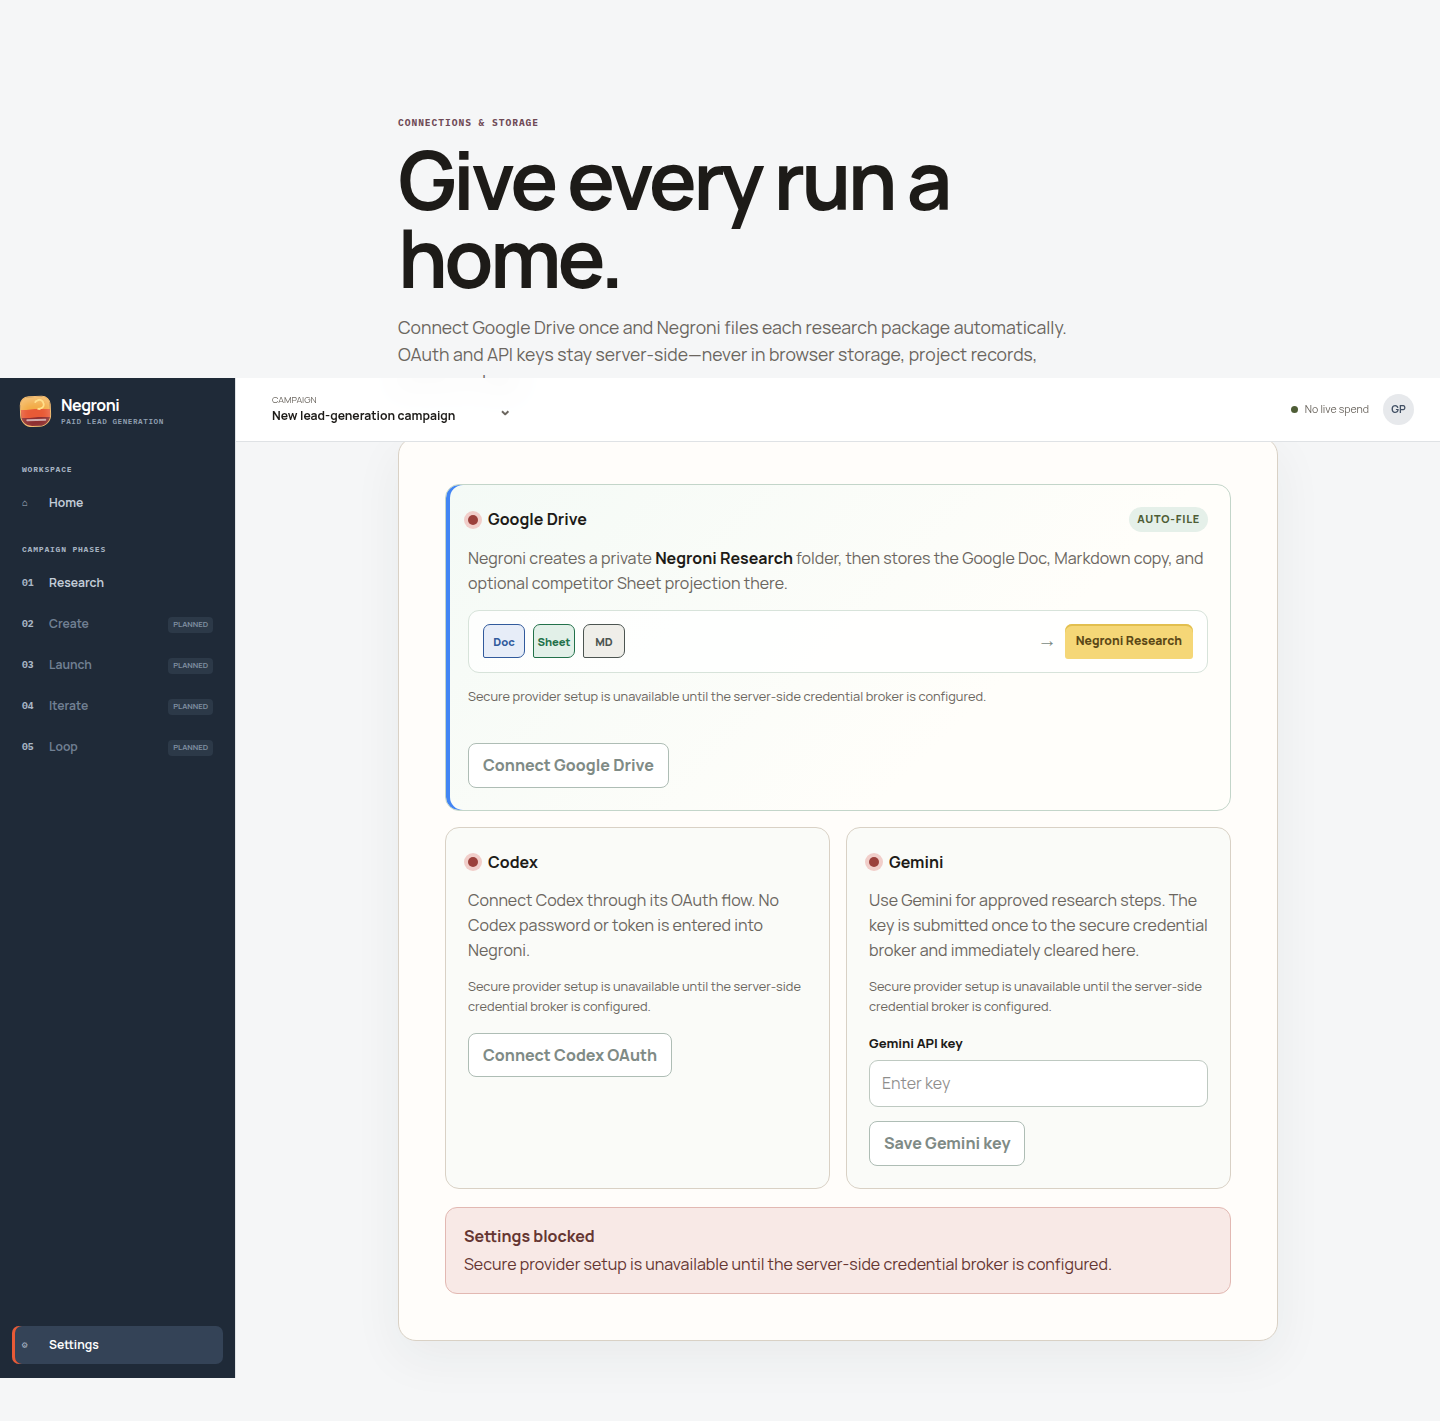
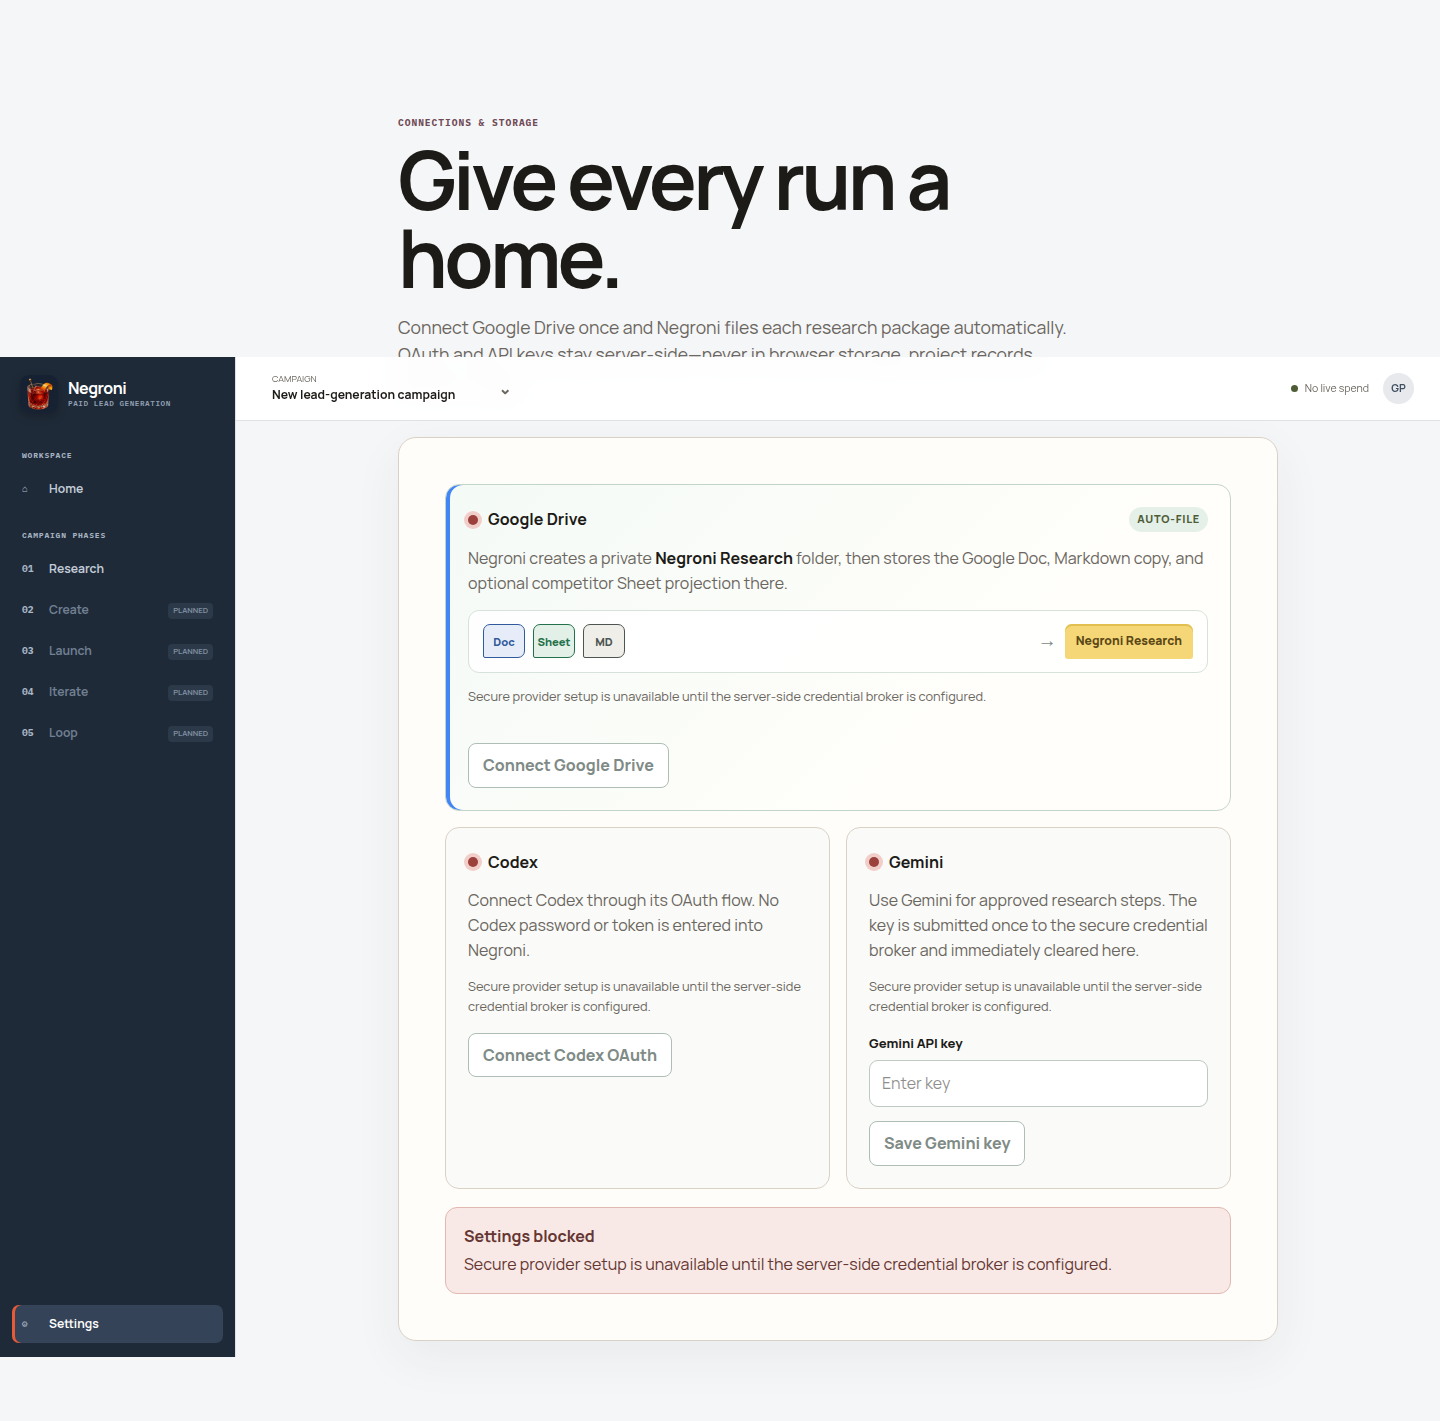
Add illustrated Negroni glass mark

diff --git a/phase-1-research/app/globals.css b/phase-1-research/app/globals.css
@@ -35,9 +35,7 @@ h1, h2 { font-family: var(--font-sans), Arial, sans-serif; font-weight: 680; let
 .brand-copy { display: grid; line-height: 1.02; }
 .brand-copy strong { font-size: 1rem; letter-spacing: -.03em; }
 .brand-copy small { margin-top: 4px; color: #91a0b2; font-family: var(--font-mono), monospace; font-size: .48rem; font-weight: 600; letter-spacing: .07em; text-transform: uppercase; }
-.brand-mark { position: relative; display: grid; width: 31px; height: 31px; flex: 0 0 auto; place-items: center; overflow: hidden; border: 1px solid #f5bd73; border-radius: 9px 9px 12px 12px; background: linear-gradient(180deg, #f2aa42 0 42%, #e85a36 43% 70%, #8e2f30 71%); color: transparent; font-size: 0; box-shadow: inset 0 5px 9px rgb(255 255 255 / 30%); transform: rotate(-2deg); }
-.brand-mark::before { position: absolute; top: 2px; right: 5px; width: 11px; height: 11px; border: 2px solid #ffdf8b; border-left-color: transparent; border-radius: 50%; content: ""; transform: rotate(-22deg); }
-.brand-mark::after { position: absolute; bottom: 5px; left: 5px; width: 20px; height: 2px; border-radius: 99px; background: rgb(255 255 255 / 60%); content: ""; }
+.brand-mark { display: block; width: 38px; height: 38px; flex: 0 0 auto; overflow: hidden; border-radius: 9px; background: #1f2a38 url("/negroni-glass-icon-v2.webp") center / 108% 108% no-repeat; filter: drop-shadow(0 3px 5px rgb(0 0 0 / 24%)); }
 .side-nav { display: grid; gap: 3px; }
 .nav-label { margin: 18px 10px 6px; color: #a5b2c1; font-family: var(--font-mono), monospace; font-size: .5rem; font-weight: 700; letter-spacing: .1em; text-transform: uppercase; }
 .side-nav button, .settings-nav { display: grid; grid-template-columns: 27px 1fr auto; align-items: center; min-height: 38px; padding: 0 10px; border: 0; border-radius: 7px; background: transparent; color: #c3cdd8; font-size: .76rem; font-weight: 650; text-align: left; }
@@ -381,7 +379,7 @@ input[type="file"]::file-selector-button { margin-right: 12px; padding: 8px 12px
   .app-sidebar { position: sticky; z-index: 40; top: 0; display: flex; width: 100%; height: 56px; flex-direction: row; align-items: center; gap: 4px; padding: 8px 10px; border-right: 0; border-bottom: 1px solid #344357; }
   .brand { padding: 0 8px 0 0; }
   .brand-copy small { display: none; }
-  .brand-mark { width: 29px; height: 29px; }
+  .brand-mark { width: 34px; height: 34px; }
   .side-nav { display: flex; flex: 1; gap: 3px; }
   .nav-label, .side-nav button:disabled, .research-subnav { display: none; }
   .side-nav button, .settings-nav { display: flex; min-height: 34px; width: auto; gap: 7px; padding: 0 9px; }

diff --git a/phase-1-research/components/intelligence-client.tsx b/phase-1-research/components/intelligence-client.tsx
@@ -389,7 +389,7 @@ export function IntelligenceClient() {
     <div className="app-shell">
       <aside className="app-sidebar">
         <button className="brand" type="button" onClick={() => navigate("home")} aria-label="Negroni home">
-          <span className="brand-mark" aria-hidden="true">N</span>
+          <span className="brand-mark" aria-hidden="true" />
           <span className="brand-copy"><strong>Negroni</strong><small>Paid lead generation</small></span>
         </button>
         <nav className="side-nav" aria-label="Application navigation">
